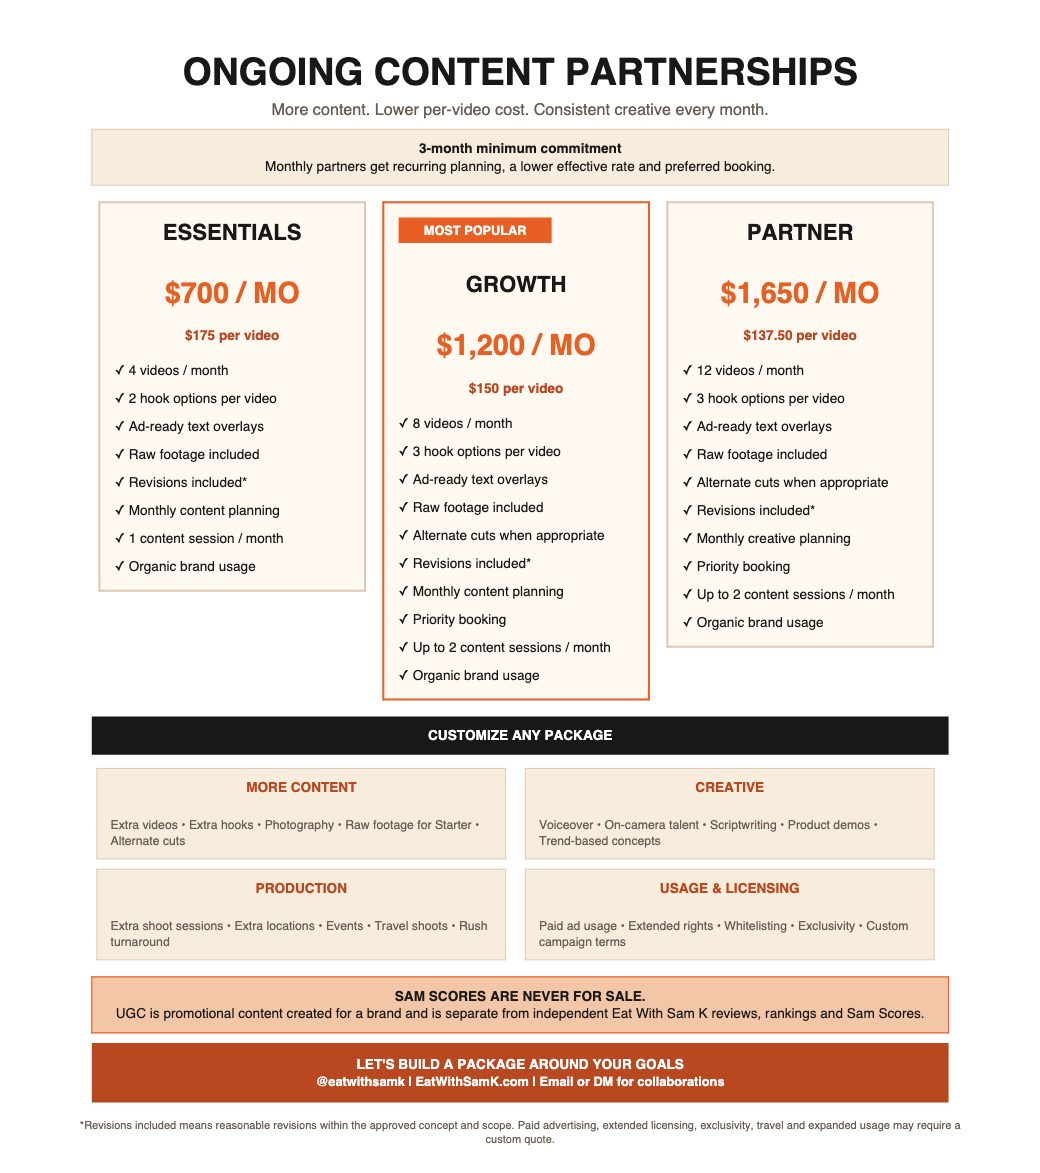
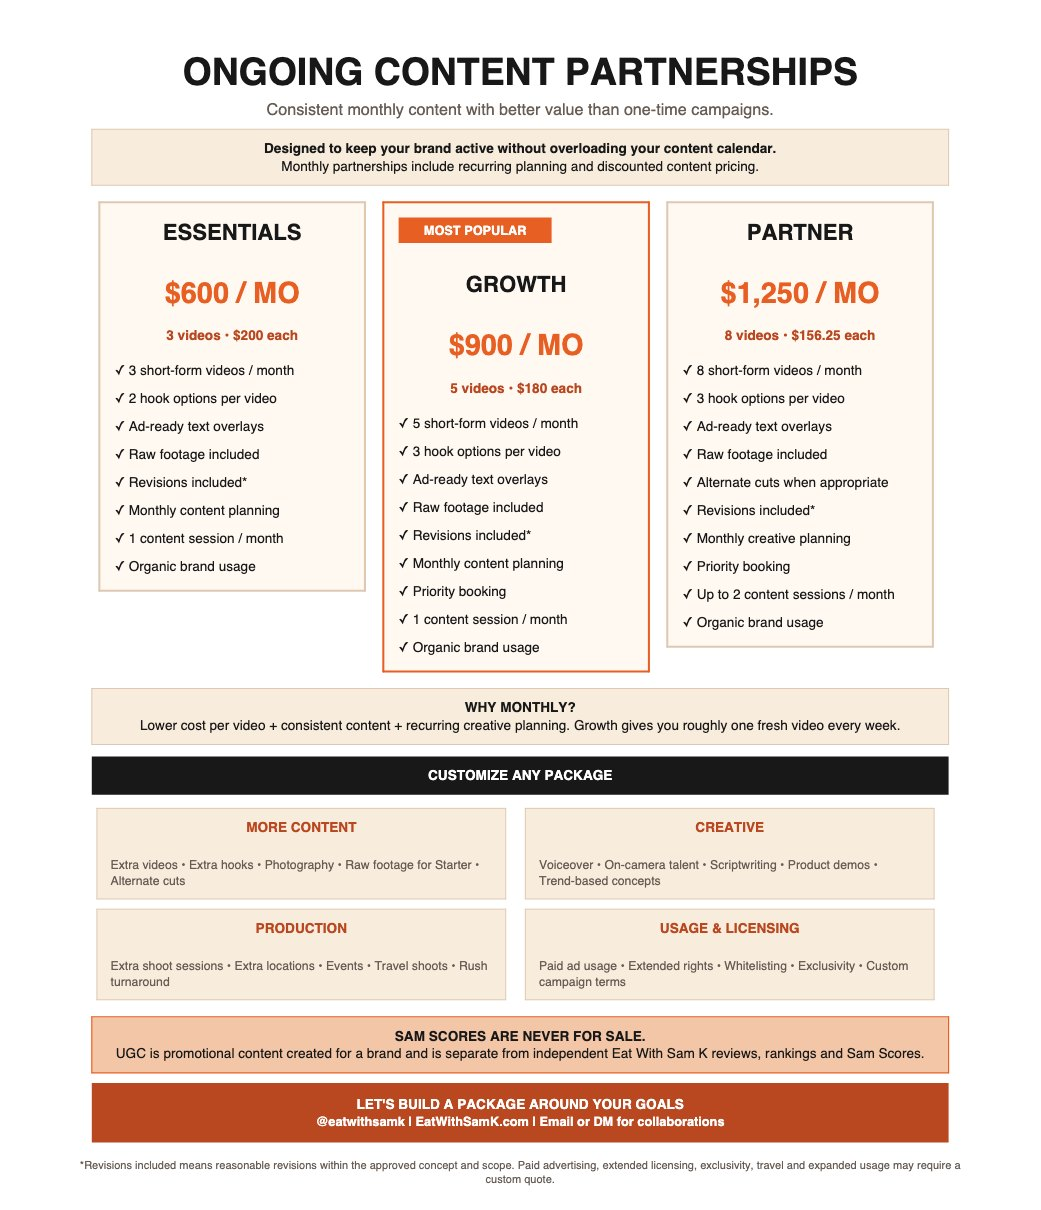
Swap in the v3 UGC rate card
New monthly tiers: Essentials $600/3, Growth $900/5, Partner $1,250/8.
Re-rendered both preview pages from the new PDF and refreshed the alt text
and customization line to match what the card now says.

Changed region(s): [[0.0615, 0.0307, 0.9231, 0.9821]]

diff --git a/advertise.html b/advertise.html
@@ -151,14 +151,14 @@
     <h3 class="review-section-title" style="font-size:1.2rem;">Packages and Pricing</h3>
     <div class="doc-preview reveal">
       <a href="files/eat-with-sam-k-ugc-rate-card.pdf" target="_blank" rel="noopener">
-        <img src="images/advertise/ugc-rate-card-p1.jpg?v=1" alt="Page 1 of the Eat With Sam K UGC rate card: one-time content packages, Starter $350 for one edited video, Content Pack $750 for three videos with raw footage, and Campaign $1,000 for five videos." loading="lazy" />
+        <img src="images/advertise/ugc-rate-card-p1.jpg?v=2" alt="Page 1 of the Eat With Sam K UGC rate card: one-time content packages. Starter $350 for one edited short-form video. Content Pack $750, the most popular option, for three videos with raw footage included. Campaign $1,000 for five videos." loading="lazy" />
       </a>
       <a href="files/eat-with-sam-k-ugc-rate-card.pdf" target="_blank" rel="noopener">
-        <img src="images/advertise/ugc-rate-card-p2.jpg?v=1" alt="Page 2 of the Eat With Sam K UGC rate card: ongoing monthly partnerships, Essentials $700 a month for four videos, Growth $1,200 a month for eight videos, Partner $1,650 a month for twelve videos, plus customization options." loading="lazy" />
+        <img src="images/advertise/ugc-rate-card-p2.jpg?v=2" alt="Page 2 of the Eat With Sam K UGC rate card: ongoing monthly partnerships. Essentials $600 a month for three videos. Growth $900 a month for five videos, the most popular option. Partner $1,250 a month for eight videos. Plus the ways any package can be customized." loading="lazy" />
       </a>
     </div>
     <p class="doc-preview-note">👆 Click either page to open the full rate card as a PDF.</p>
-    <p class="review-about">Every package is customizable: extra videos, photography, voiceover, product demos, extra shoot days, events, travel, rush turnaround, paid ad usage, and extended licensing. Tell me the goal and I'll build around it.</p>
+    <p class="review-about">Every package is customizable: extra videos and hooks, photography, voiceover, on-camera talent, scriptwriting, product demos, extra shoot sessions, events, travel, rush turnaround, paid ad usage, whitelisting, and extended licensing. Tell me the goal and I'll build around it.</p>
 
     <a class="btn btn-primary" href="files/eat-with-sam-k-ugc-rate-card.pdf" target="_blank" rel="noopener">📄 Download Full UGC Rate Card (PDF)</a>
 
